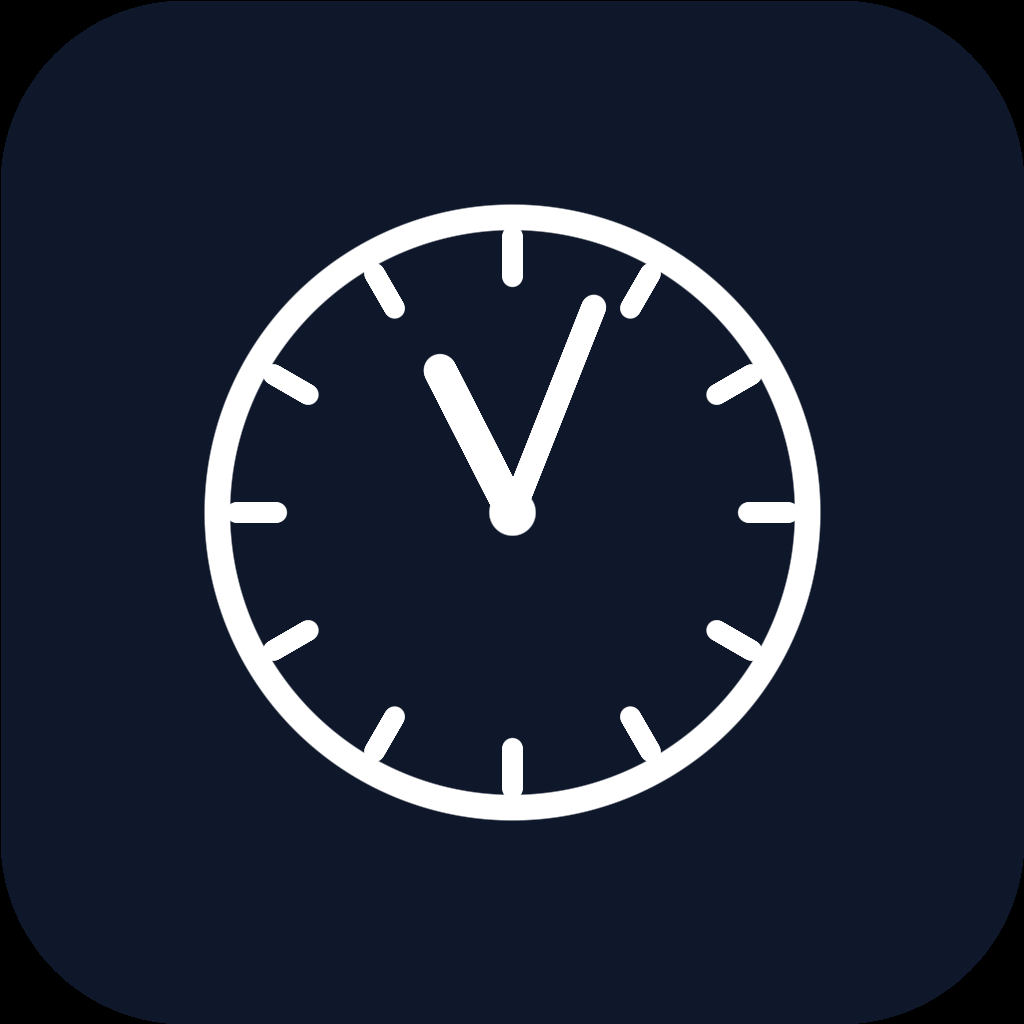
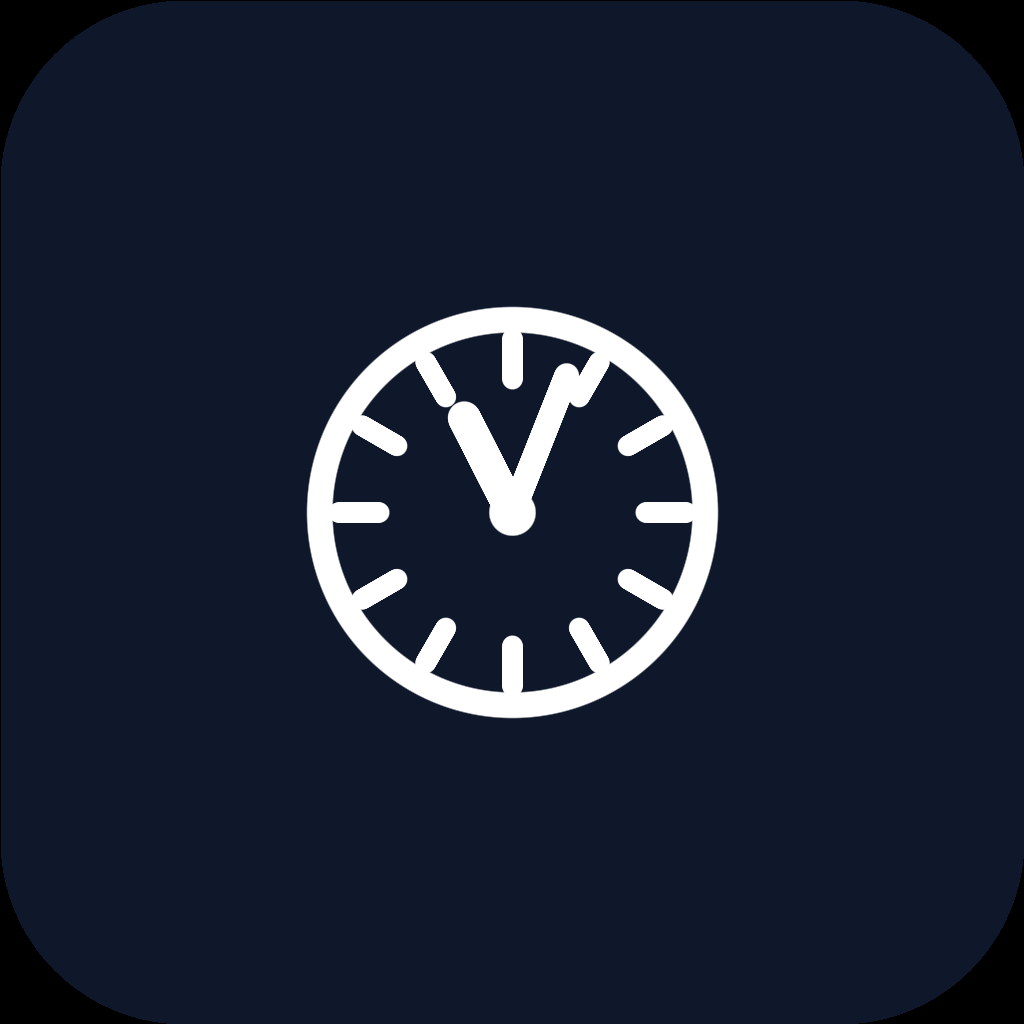
add notificacion

Changed region(s): [[0.1875, 0.1875, 0.8125, 0.8125]]

diff --git a/attendance-mobile/app/(app)/profile.tsx b/attendance-mobile/app/(app)/profile.tsx
@@ -1,6 +1,4 @@
-import { mobileService } from '@/services/mobileService'
 import { useAuthStore } from '@/store/authStore'
-import { registerForPushNotifications } from '@/utils/notifications'
 import { Ionicons } from '@expo/vector-icons'
 import { router } from 'expo-router'
 import { Alert, Platform, StyleSheet, Text, TouchableOpacity, View } from 'react-native'
@@ -8,24 +6,6 @@ import { SafeAreaView } from 'react-native-safe-area-context'
 
 export default function ProfileScreen() {
   const { fullName, employeeCode, email, clearAuth } = useAuthStore()
-
-  const testPushToken = async () => {
-    try {
-      const token = await registerForPushNotifications()
-      if (!token) {
-        Alert.alert('Sin token', 'registerForPushNotifications() retornó null.\nVerifica permisos de notificación.')
-        return
-      }
-      try {
-        await mobileService.updatePushToken(token)
-        Alert.alert('✅ Token guardado', `Token registrado:\n${token.slice(0, 40)}...`)
-      } catch (e: any) {
-        Alert.alert('❌ Error al guardar token', `Token obtenido pero fallo al guardar:\n${e?.message ?? e}`)
-      }
-    } catch (e: any) {
-      Alert.alert('❌ Error al obtener token', `registerForPushNotifications() lanzó error:\n${e?.message ?? e}`)
-    }
-  }
 
   const doLogout = async () => {
     await clearAuth()
@@ -70,11 +50,6 @@ export default function ProfileScreen() {
           </View>
         </View>
 
-        <TouchableOpacity style={styles.testBtn} onPress={testPushToken}>
-          <Ionicons name="notifications-outline" size={20} color="#3b82f6" />
-          <Text style={styles.testText}>Probar notificaciones</Text>
-        </TouchableOpacity>
-
         <TouchableOpacity style={styles.logoutBtn} onPress={handleLogout}>
           <Ionicons name="log-out-outline" size={20} color="#ef4444" />
           <Text style={styles.logoutText}>Cerrar sesión</Text>
@@ -106,13 +81,6 @@ const styles = StyleSheet.create({
   divider:      { height: 1, backgroundColor: '#334155' },
   infoLabel:    { fontSize: 13, color: '#64748b', width: 60 },
   infoValue:    { flex: 1, fontSize: 14, color: '#f1f5f9', fontWeight: '500', textAlign: 'right' },
-  testBtn:      {
-    flexDirection: 'row', alignItems: 'center', gap: 8,
-    backgroundColor: '#1e3a5f', borderRadius: 12,
-    paddingHorizontal: 24, paddingVertical: 14, width: '100%',
-    justifyContent: 'center', marginBottom: 12,
-  },
-  testText:     { color: '#3b82f6', fontSize: 15, fontWeight: '700' },
   logoutBtn:    {
     flexDirection: 'row', alignItems: 'center', gap: 8,
     backgroundColor: '#450a0a', borderRadius: 12,

diff --git a/attendance-mobile/app.config.js b/attendance-mobile/app.config.js
@@ -1,0 +1,15 @@
+// app.config.js overrides app.json for dynamic values (env vars, etc.)
+const { expo } = require('./app.json');
+
+module.exports = {
+  expo: {
+    ...expo,
+    android: {
+      ...expo.android,
+      // EAS Build writes the google-services.json from the secret file env var.
+      // process.env.GOOGLE_SERVICES_JSON resolves to the file path on EAS builders.
+      // Falls back to local file for development.
+      googleServicesFile: process.env.GOOGLE_SERVICES_JSON ?? './google-services.json',
+    },
+  },
+};

diff --git a/attendance-nextjs/services/svc-mobile/src/jobs/reminders.ts b/attendance-nextjs/services/svc-mobile/src/jobs/reminders.ts
@@ -22,6 +22,7 @@ async function runReminders() {
       eligibleTenantIds.push(sub.tenant.id)
     }
 
+    console.log(`[reminders] ${new Date().toISOString()} subs=${subscriptions.length} eligible=${eligibleTenantIds.length}`)
     if (eligibleTenantIds.length === 0) return
 
     const tenants = await prisma.tenant.findMany({
@@ -45,6 +46,7 @@ async function runReminders() {
         include: { schedule: true },
       })
 
+      console.log(`[reminders] tenant=${tenant.id} tz=${tz} nowMins=${nowMins} employees=${employees.length}`)
       for (const emp of employees) {
         if (!emp.schedule || !emp.expoPushToken) continue
         if (emp.schedule.type === 'Variable') continue
@@ -85,14 +87,9 @@ async function runReminders() {
         if (lunchStartMins !== null) {
           const target = lunchStartMins - 5
           if (nowMins === target) {
-            // Omitir si ya registró salida en período mañana
-            const morningCheckOut = todayRecords.find(r => {
-              if (!r.checkOutTime) return false
-              const outMins = DateTime.fromJSDate(r.checkOutTime, { zone: tz }).hour * 60
-                            + DateTime.fromJSDate(r.checkOutTime, { zone: tz }).minute
-              return outMins < lunchStartMins
-            })
-            if (!morningCheckOut) {
+            // Solo si el empleado tiene check-in activo esta mañana (sin check-out aún)
+            const hasActiveMorning = todayRecords.some(r => r.checkInTime && !r.checkOutTime)
+            if (hasActiveMorning) {
               sendExpoPush(emp.expoPushToken, {
                 title: '🍽 Almuerzo en 5 minutos',
                 body:  'Recuerda registrar tu salida antes de ir a almorzar.',

diff --git a/README.md b/README.md
@@ -240,19 +240,22 @@ docker run -d --name aiattendance-frontend --add-host=host.docker.internal:host-
 
 ### 3. `attendance-mobile` — App Móvil (TiempoYa)
 
-App para empleados — marcación de entrada/salida con GPS.
+App para empleados — marcación de entrada/salida con GPS y notificaciones push.
 
 **Stack:**
 - Expo 52 · React Native 0.76 · TypeScript
 - Expo Router · Zustand · Axios
 - Expo Location · Expo Notifications · Expo Secure Store
+- EAS Build (Expo Application Services) para compilación en la nube
 
 **Datos de la app:**
 - Nombre: `TiempoYa`
 - Package Android: `com.abisoft.tiempoya`
 - Bundle iOS: `com.abisoft.tiempoya`
-- Icono: `icon.png` (reloj sin texto, 1024×1024)
-- Splash: `splash.png` (portrait, resizeMode: cover)
+- EAS Project ID: `03665f3e-8e79-489e-9984-5480c7486d79`
+- EAS Owner: `yasmani1997`
+- Icono: `icon.png` (reloj sin texto, 1024×1024, fondo `#0f172a`)
+- Splash: `splash.png` (portrait, resizeMode: cover, fondo `#0f172a`)
 
 **Pantallas:**
 
@@ -264,20 +267,6 @@ App para empleados — marcación de entrada/salida con GPS.
 | Perfil | Datos del empleado, cerrar sesión |
 | Notificaciones | Avisos del sistema |
 
-**Variables de entorno (`.env` en la raíz de `attendance-mobile`):**
-```env
-# Producción
-EXPO_PUBLIC_API_URL=https://www.tiempoya.net
-
-# Local (desarrollo) — reemplazar con la IP de tu máquina
-EXPO_PUBLIC_API_URL=http://192.168.X.X:8080
-```
-
-> ⚠️ **Importante:** Verificar siempre que `.env` apunte a producción antes de compilar la APK. La URL se incrusta en el bundle JS en tiempo de compilación.
-
-**Nota sobre la carpeta `android/`:**
-> La carpeta `android/` está en `.gitignore` y NO se sube al repo. Cada vez que se clona el repo desde cero hay que generarla con `expo prebuild` y aplicar los dos fixes obligatorios (ver abajo).
-
 ---
 
 **Cómo ejecutar en desarrollo:**
@@ -285,97 +274,108 @@ EXPO_PUBLIC_API_URL=http://192.168.X.X:8080
 cd attendance-mobile
 npm install
 npm start          # Expo Go (escanear QR)
-npm run android    # Emulador Android
-npm run ios        # Simulador iOS
+npm run android    # Emulador Android (sin notificaciones push)
+npm run ios        # Simulador iOS (sin notificaciones push)
+```
+
+> Las notificaciones push **solo funcionan en APKs generadas con EAS Build**. El emulador y Expo Go no reciben tokens FCM válidos.
+
+---
+
+**Variables de entorno:**
+
+El archivo `.env` local se usa solo para desarrollo. Para los builds de EAS, las variables se configuran en el proyecto de Expo:
+
+```env
+# attendance-mobile/.env  (solo para desarrollo local)
+EXPO_PUBLIC_API_URL=https://www.tiempoya.net
+```
+
+Las variables de producción están configuradas en EAS (proyecto `@yasmani1997/attendance-mobile`):
+- `EXPO_PUBLIC_API_URL` = `https://www.tiempoya.net` → perfil `preview`
+
+Para agregar o modificar variables en EAS:
+```bash
+cd attendance-mobile
+eas env:create --scope project --environment preview --name EXPO_PUBLIC_API_URL --value "https://www.tiempoya.net" --visibility plaintext
 ```
 
 ---
 
-**Requisitos para compilar APK (Windows):**
-- Android Studio instalado (incluye el SDK)
-- Java 17 (incluido en Android Studio o instalar por separado)
-- Variables de entorno del sistema configuradas **(hacer una sola vez)**:
+**Generar APK (distribución interna / testing) — EAS Build:**
 
-| Variable | Valor |
-|---|---|
-| `ANDROID_HOME` | `C:\Users\<tu-usuario>\AppData\Local\Android\Sdk` |
-| `JAVA_HOME` | `C:\Program Files\Java\jdk-17` |
-
----
-
-**CASO 1 — Primera vez o tras clonar el repo desde cero:**
-
-```powershell
-# Pararse en la carpeta del proyecto
-cd C:\...\attendance-mobile
-
-# 1. Instalar dependencias
+```bash
+cd attendance-mobile
 npm install
 
-# 2. Verificar que .env tenga la URL de producción
-#    EXPO_PUBLIC_API_URL=https://www.tiempoya.net
+# Iniciar sesión en EAS (solo la primera vez)
+eas login   # cuenta: yasmani1997
 
-# 3. Generar carpeta android/
-npx expo prebuild --platform android
-
-# 4. Fix de Kotlin — OBLIGATORIO tras cada prebuild
-#    Abrir android/build.gradle y cambiar:
-#        classpath('org.jetbrains.kotlin:kotlin-gradle-plugin')
-#    Por:
-#        classpath("org.jetbrains.kotlin:kotlin-gradle-plugin:${kotlinVersion}")
-
-# 5. Fix de red HTTP — OBLIGATORIO tras cada prebuild
-#    Abrir android/app/src/main/AndroidManifest.xml
-#    En la etiqueta <application ...> agregar al final:
-#        android:usesCleartextTraffic="true"
-
-# 6. Compilar
-$env:ANDROID_HOME = "C:\Users\usuario\AppData\Local\Android\Sdk"
-$env:JAVA_HOME    = "C:\Program Files\Java\jdk-17"
-cd android
-.\gradlew.bat assembleRelease
+# Generar APK interna (perfil preview)
+eas build --platform android --profile preview --non-interactive
 ```
+
+EAS compila en la nube (~5 min). Al terminar imprime un link para descargar e instalar el APK directamente en el dispositivo. El APK incluye credenciales FCM para notificaciones push.
+
+**Instalar en el teléfono:** abrir el link de EAS en el navegador del dispositivo Android, o escanear el QR que aparece en la terminal.
+
+> ⚠️ Si el teléfono ya tiene instalada una versión anterior, desinstalarla primero.
 
 ---
 
-**CASO 2 — Actualización de código (la carpeta `android/` ya existe):**
+**Generar AAB para Play Store (producción):**
 
-```powershell
-# No hace falta prebuild ni reaplicar los fixes
-$env:ANDROID_HOME = "C:\Users\usuario\AppData\Local\Android\Sdk"
-$env:JAVA_HOME    = "C:\Program Files\Java\jdk-17"
-cd C:\...\attendance-mobile\android
-.\gradlew.bat assembleRelease
+```bash
+eas build --platform android --profile production
 ```
+
+Genera un `.aab` (Android App Bundle) firmado. Para subirlo a Google Play:
+```bash
+eas submit --platform android
+```
+Requiere tener la app creada previamente en [Google Play Console](https://play.google.com/console) y una cuenta de desarrollador ($25 pago único).
 
 ---
 
-**CASO 3 — Se agregó un plugin nativo nuevo en `app.json`:**
+**Generar build para App Store (iOS):**
 
-Igual que el Caso 1 pero usar `expo prebuild` sin `--clean` para no borrar los fixes existentes:
-
-```powershell
-npx expo prebuild --platform android   # sin --clean
-# Verificar que los fixes de Kotlin y cleartext siguen presentes
-# Si no están, reaplicarlos (ver Caso 1, pasos 4 y 5)
-cd android && .\gradlew.bat assembleRelease
+```bash
+eas build --platform ios --profile production
+eas submit --platform ios
 ```
+
+Requiere cuenta Apple Developer ($99/año) y la app creada en App Store Connect. EAS compila en workers con Mac, no se necesita hardware Apple.
 
 ---
 
-**APK generada en:**
-```
-android\app\build\outputs\apk\release\app-release.apk
-```
+**Perfiles de EAS (`eas.json`):**
 
-**Instalar en el teléfono:**
-```powershell
-# Via USB con Depuración USB activada
-C:\Users\usuario\AppData\Local\Android\Sdk\platform-tools\adb.exe install android\app\build\outputs\apk\release\app-release.apk
-```
-O copiar el `.apk` al teléfono e instalarlo manualmente (`Ajustes → Instalar apps desconocidas`).
+| Perfil | Tipo | Uso |
+|---|---|---|
+| `preview` | APK interno | Testing en dispositivos físicos |
+| `production` | AAB firmado | Publicación en tiendas |
+| `development` | Dev client | Desarrollo con módulos nativos |
 
-> Si el teléfono ya tiene instalada una versión anterior con distinto package name, desinstalarla primero.
+---
+
+**Fixes permanentes ya integrados en el proyecto:**
+
+Los siguientes problemas ya están resueltos mediante configuración en `app.json` y no requieren pasos manuales:
+
+1. **Kotlin 1.9.24 vs 1.9.25** — El plugin `plugins/withKotlinVersion.js` + `expo-build-properties` fuerzan Kotlin 1.9.25 durante el prebuild de EAS, necesario para que el Compose Compiler 1.5.15 (usado por `expo-modules-core`) compile correctamente. Sin este fix el build falla con `compileReleaseKotlin FAILED`.
+
+2. **Tráfico HTTP (cleartext)** — El campo `android.usesCleartextTraffic` se aplica automáticamente vía el plugin al AndroidManifest.xml, permitiendo conexiones HTTP al servidor local durante desarrollo.
+
+---
+
+**Solución de problemas frecuentes:**
+
+| Problema | Causa | Solución |
+|---|---|---|
+| `compileReleaseKotlin FAILED` | Compose Compiler necesita Kotlin 1.9.25 | Ya resuelto con `withKotlinVersion.js` |
+| NetworkError al abrir la app | `EXPO_PUBLIC_API_URL` no configurada en EAS | `eas env:create ...` (ver arriba) |
+| Token push null en DB | Permisos de notificación denegados o FCM no inicializado | Ir a Ajustes → Apps → TiempoYa → Notificaciones → Activar |
+| APK instalado pero sin notificaciones | APK compilado localmente (sin EAS) | Usar `eas build` en lugar de Gradle local |
 
 ---
 